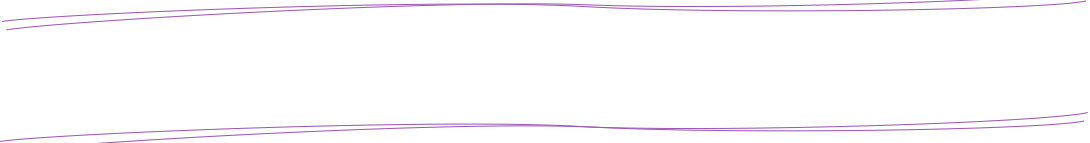
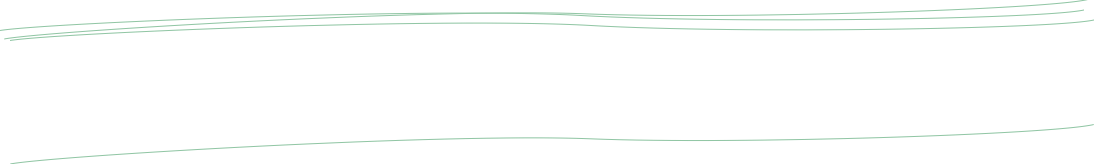
Fix fonts / add more green

Changed region(s): [[0.0, 0.0, 1.0, 0.2517], [0.0, 0.7552, 1.0, 1.0], [0.967, 0.8392, 0.9982, 0.8671]]

diff --git a/public/css/app.min.css b/public/css/app.min.css
@@ -1,1 +1,1 @@
-/*! normalize.css v3.0.0 | MIT License | git.io/normalize */html{font-family:sans-serif;-ms-text-size-adjust:100%;-webkit-text-size-adjust:100%}body{margin:0}article,aside,details,figcaption,figure,footer,header,hgroup,main,nav,section,summary{display:block}audio,canvas,progress,video{display:inline-block;vertical-align:baseline}audio:not([controls]){display:none;height:0}[hidden],template{display:none}a{background:transparent}a:active,a:hover{outline:0}abbr[title]{border-bottom:1px dotted}b,strong{font-weight:700}dfn{font-style:italic}h1{font-size:2em;margin:.67em 0}mark{background:#ff0;color:#000}small{font-size:80%}sub,sup{font-size:75%;line-height:0;position:relative;vertical-align:baseline}sup{top:-.5em}sub{bottom:-.25em}img{border:0}svg:not(:root){overflow:hidden}figure{margin:1em 40px}hr{-moz-box-sizing:content-box;-webkit-box-sizing:content-box;box-sizing:content-box;height:0}pre{overflow:auto}code,kbd,pre,samp{font-family:monospace,monospace;font-size:1em}button,input,optgroup,select,textarea{color:inherit;font:inherit;margin:0}button{overflow:visible}button,select{text-transform:none}button,html input[type=button],input[type=reset],input[type=submit]{-webkit-appearance:button;cursor:pointer}button[disabled],html input[disabled]{cursor:default}button::-moz-focus-inner,input::-moz-focus-inner{border:0;padding:0}input{line-height:normal}input[type=checkbox],input[type=radio]{-webkit-box-sizing:border-box;-moz-box-sizing:border-box;box-sizing:border-box;padding:0}input[type=number]::-webkit-inner-spin-button,input[type=number]::-webkit-outer-spin-button{height:auto}input[type=search]{-webkit-appearance:textfield;-moz-box-sizing:content-box;-webkit-box-sizing:content-box;box-sizing:content-box}input[type=search]::-webkit-search-cancel-button,input[type=search]::-webkit-search-decoration{-webkit-appearance:none}fieldset{border:1px solid silver;margin:0 2px;padding:.35em .625em .75em}legend{border:0;padding:0}textarea{overflow:auto}optgroup{font-weight:700}table{border-collapse:collapse;border-spacing:0}td,th{padding:0}*{-webkit-box-sizing:border-box;-moz-box-sizing:border-box;box-sizing:border-box}*,:before,:after{-webkit-box-sizing:border-box;-moz-box-sizing:border-box;box-sizing:border-box}body{width:100%;height:100%;margin:0;padding:20px;background:#edf1fa url(/images/body-bg.jpg) center center no-repeat;background-attachment:fixed;-webkit-background-size:cover;background-size:cover}@media (max-width:700px){body{background:#edf1fa;padding:0}}header{background:#eee url(/images/header-bg.png) top left repeat;width:90%;max-width:1400px;margin:0 auto;padding:60px 0;text-align:center;border:1px solid #ddd;border-bottom:0}@media (max-width:700px){header{width:100%;max-width:auto}}header .logo{margin:0 auto;max-width:656px}@media (max-width:1100px){header .logo{width:90%;height:auto}}header hr{border:0;height:41px;background:transparent url(/images/line-top@2x.png) center center no-repeat;-webkit-background-size:cover;background-size:cover;max-width:800px}@media (max-width:700px){header hr{display:none}}.page{background:#fff;width:90%;max-width:1400px;margin:0 auto 20px;padding:40px 100px;border:1px solid #ddd;border-top:0}@media (max-width:1000px){.page{padding:20px 5px}}@media (max-width:700px){.page{width:100%;max-width:auto;padding:10px 0}}.box{width:80%;margin:60px auto;background:rgba(250,250,250,.7);border:1px solid #ddd;padding:40px 0;-webkit-box-shadow:0 0 30px gainsboro;box-shadow:0 0 30px gainsboro}.box h1,.box h2{margin:0}@media (max-width:700px){.box{width:80%;margin:60px 0}}html,body,p,input,button,textarea,select{font-family:Lora,'Open Sans',"Helvetica Neue",Helvetica,Arial,sans-serif;font-size:18px;color:#444}h1,h2{margin:20px 0 30px;font-family:Cinzel,Georgia,Cambria,"Times New Roman",Times,serif;letter-spacing:.11em;font-size:2.33333em;font-weight:400;color:#f07677;text-align:center}@media (max-width:700px){h1,h2{font-size:1.63333em}}p{font-weight:100;line-height:1.5em}p.left{text-align:left}p.right{text-align:right}p.center{text-align:center}p.intro{text-align:center;padding:0 8%}p.large{font-size:1.3em}@media (max-width:700px){p.large{font-size:1.1em}}sup{top:0;font-size:smaller;vertical-align:super}.drop{font-size:1.5em;font-weight:500}a{text-decoration:none;font-family:Lora,'Open Sans',"Helvetica Neue",Helvetica,Arial,sans-serif;color:#ac74c1;font-weight:700;-webkit-transition:color .5s ease-in-out;transition:color .5s ease-in-out}a:hover{color:#3d2049}nav{display:block;width:90%;max-width:1400px;margin:0 auto;height:70px;background:#ac74c1}@media (max-width:700px){nav{width:100%;max-width:auto}}@media (max-width:960px){nav{height:auto}}nav a{display:block;padding:0 30px;line-height:70px;text-transform:uppercase;text-decoration:none;font-family:'Source Sans Pro',Lora,'Open Sans',"Helvetica Neue",Helvetica,Arial,sans-serif;font-size:1.11111em;font-weight:200;color:#fff;text-align:center}@media (max-width:1200px){nav a{padding:0 15px;max-width:auto}}@media (max-width:960px){nav a{padding:0 10px;font-size:.88889em}}nav a:hover{color:#fff}nav a.menu{display:none;font-size:1.11111em;-webkit-transition:none;transition:none;font-weight:500}nav a.menu.open{background:#ddd;color:#444}@media (max-width:960px){nav a.menu{display:block}}nav ul{display:block;height:70px;margin:0 auto;padding:0;text-align:center}@media (max-width:960px){nav ul{height:auto;display:none}}nav ul li{display:inline-block;list-style:none;height:70px;-webkit-transition:background .3s ease-in-out;transition:background .3s ease-in-out}@media (max-width:960px){nav ul li{display:block}}nav ul li:hover{background:rgba(68,68,68,.1)}nav ul li.active{background:rgba(68,68,68,.2)}nav ul li.active a{font-weight:400}.cal{margin:20px auto 0;width:430px;height:80px;padding:10px 20px;border:1px solid #ccc;background:#fff;-webkit-box-shadow:0 0 30px #eee;box-shadow:0 0 30px #eee}@media (max-width:700px){.cal{width:90%;height:auto;padding:20px 0}}.cal-first{margin-top:40px}.cal-time{float:left;width:120px;height:60px;padding-right:20px;font-size:24px;line-height:60px;text-align:center;font-weight:700}@media (max-width:700px){.cal-time{float:none;width:100%;text-align:center;padding:0;line-height:40px;height:40px}}.cal-time small{font-size:14px;color:#666;text-transform:uppercase;padding-left:2px}.cal-title{float:left;width:180px;height:60px;font-size:18px;line-height:60px;text-align:left}@media (max-width:700px){.cal-title{float:none;width:100%;text-align:center;height:40px;line-height:40px}}.cal-add{float:left;width:80px;height:60px;padding-top:8px;padding-left:20px;font-size:24px;line-height:60px;text-align:center}@media (max-width:700px){.cal-add{float:none;width:100%;padding:10px 0 0;text-align:center;height:60px;line-height:60px}}form{width:80%;margin:60px auto 20px}label{display:block;width:90%;margin:20px auto 10px;text-align:left;font-size:1.2em;line-height:1.5em;font-weight:100}label.radio{font-weight:400;font-size:1em;text-align:left;padding:0 10px}label.radio input{margin-right:10px}input[type=text],input[type=email],textarea{outline:0;display:block;width:90%;margin:0 5% 50px;padding:20px;border:1px solid #ccc;color:#3f3f3f;border-radius:2px;-webkit-transition:background .2s linear,-webkit-box-shadow .6s linear;transition:background .2s linear,box-shadow .6s linear;font-size:.9em;background:#fff}input[type=text]:required,input[type=email]:required,textarea:required{-webkit-box-shadow:none;box-shadow:none}input[type=text]:active,input[type=text]:focus,input[type=email]:active,input[type=email]:focus,textarea:active,textarea:focus{background:#fefefe;border:1px solid #ac74c1;-webkit-box-shadow:0 0 30px #ccc,2px 2px 7px #e8e8e8 inset,0 0 0 2px #ac74c1;box-shadow:0 0 30px #ccc,2px 2px 7px #e8e8e8 inset,0 0 0 2px #ac74c1}input[type=text],input[type=email]{height:40px;line-height:40px}textarea{min-height:150px;resize:vertical}::-webkit-input-placeholder{color:#bababa;font-style:italic}button{display:block;width:90%;max-width:200px;margin:20px 5%;background:#ac74c1;padding:20px;color:#fff;border:0}.radio-buttons{margin-top:-30px;padding:5px 0}fieldset{float:left;width:44%;margin:0 0 30px 4%;padding:0;border:1px solid #ccc}@media (max-width:960px){fieldset{float:none;width:90%;margin:0 auto 30px}}fieldset legend{text-align:left;font-size:.9em;font-weight:700;padding:0 10px}fieldset textarea{min-height:50px;margin-bottom:20px}.cal-add .addthisevent-drop{width:38px;height:41px;display:inline-block;position:relative;z-index:999998;background:url(/images/calendar-icon@2x.png) no-repeat;-webkit-background-size:38px 41px;background-size:38px 41px;border:0}.cal-add .addthisevent-drop:hover{border:0}.cal-add .addthisevent_dropdown{width:180px;position:absolute;z-index:99999;padding:6px 0 0;background:#fff;text-align:left;display:none;margin-top:4px;margin-left:-1px;border:1px solid #ddd;-webkit-box-shadow:1px 1px 5px rgba(0,0,0,.15);box-shadow:1px 1px 5px rgba(0,0,0,.15)}.cal-add .addthisevent_dropdown span{width:178px;display:block;height:40px;padding:0;padding-left:20px;line-height:40px;background:#fff;text-decoration:none;text-align:left;font-size:12px;font-weight:400;color:#f07677;color:#444}.cal-add .addthisevent_dropdown span:hover{background:#f07677;color:#fff;text-decoration:none}.cal-add .addthisevent span{display:none!important}.cal-add .addthisevent-drop ._url,.cal-add .addthisevent-drop ._start,.cal-add .addthisevent-drop ._end,.cal-add .addthisevent-drop ._summary,.cal-add .addthisevent-drop ._description,.cal-add .addthisevent-drop ._location,.cal-add .addthisevent-drop ._organizer,.cal-add .addthisevent-drop ._organizer_email,.cal-add .addthisevent-drop ._facebook_event,.cal-add .addthisevent-drop ._all_day_event{display:none!important}.cal-add .addthisevent_dropdown .copyx{margin-top:10px;border-top:1px solid #ddd;width:180px;height:30px;display:block;position:relative;cursor:default}.cal-add .addthisevent_dropdown .brx{display:none}.cal-add .addthisevent_dropdown .frs{position:absolute;top:10px;cursor:pointer;right:10px;padding-left:10px;font-style:normal;font-weight:400;text-align:right;z-index:101;line-height:110%;text-decoration:none;font-size:9px;color:#444}.cal-add .addthisevent_dropdown .frs:hover{color:#f07677}.cal-add .addthisevent{visibility:hidden}.photos{text-align:center;margin-top:40px}.photos img{margin:20px;margin-bottom:0;width:200px;height:auto;-webkit-box-shadow:0 0 3px #999,0 0 35px #aaa;box-shadow:0 0 3px #999,0 0 35px #aaa}.box-cal{width:90%;max-width:600px;margin-left:auto;margin-right:auto}@media (max-width:700px){.box-cal{width:100%;margin:40px 0;text-align:center;background:transparent;-webkit-box-shadow:none;box-shadow:none;border:0}}.box-location{margin:80px auto 40px;padding:20px 0}.box-location:after{content:"";display:table;clear:both}@media (max-width:700px){.box-location{width:100%;margin:60px 0;text-align:center;background:transparent;-webkit-box-shadow:none;box-shadow:none;border:0}}.box-location .photo{margin:0 40px;float:right;-webkit-box-shadow:0 0 3px #999,0 0 35px #aaa;box-shadow:0 0 3px #999,0 0 35px #aaa}@media (max-width:1200px){.box-location .photo{margin:20px 5%!important;float:none;width:90%}}.box-location .map{margin:20px 40px 0;-webkit-box-shadow:0 0 3px #999,0 0 35px #aaa;box-shadow:0 0 3px #999,0 0 35px #aaa}@media (max-width:960px){.box-location .map{margin:20px 5%!important;float:none;width:90%}}.box-location h2{margin:0 0 30px;padding-bottom:10px}.box-location p{padding:0 40px}.box-location p.address{font-weight:600;font-size:1.4em;text-align:center;padding-bottom:20px}.box-directions{margin:40px auto;padding:20px 0;text-align:center}@media (max-width:700px){.box-directions{width:100%;margin:40px 0;text-align:center;background:transparent;-webkit-box-shadow:none;box-shadow:none;border:0}}.box-directions h2{margin-top:20px;margin-bottom:30px}.box-directions .map{margin:25px 0;-webkit-box-shadow:0 0 3px #999,0 0 35px #aaa;box-shadow:0 0 3px #999,0 0 35px #aaa}.box-directions p{padding:0 5%}.box-directions ul{width:400px;margin:0 auto}@media (max-width:700px){.box-directions ul{width:100%;padding:0}}.box-directions ul li{list-style:none;padding:5px 0}@media (max-width:700px){.box-directions ul li{padding:5px 10px}}.box-directions dl{width:420px;margin:0 auto}@media (max-width:700px){.box-directions dl{width:auto}}.box-directions dl dt,.box-directions dl dd{display:inline-block;margin:0 0 10px;padding:0;font-weight:700}.box-directions dl dt{width:280px;text-align:left}@media (max-width:700px){.box-directions dl dt{display:block;width:100%;text-align:center}}.box-directions dl dd{width:130px;text-align:right}@media (max-width:700px){.box-directions dl dd{display:block;width:100%;text-align:center}}.box-contact,.box-rsvp{margin:80px auto 40px;padding:20px 0;max-width:800px}.box-contact:after,.box-rsvp:after{content:"";display:table;clear:both}@media (max-width:700px){.box-contact,.box-rsvp{width:100%;margin:60px 0;text-align:center;background:transparent;-webkit-box-shadow:none;box-shadow:none;border:0}}.box-rsvp{max-width:1000px;padding:40px 0}
+/*! normalize.css v3.0.0 | MIT License | git.io/normalize */html{font-family:sans-serif;-ms-text-size-adjust:100%;-webkit-text-size-adjust:100%}body{margin:0}article,aside,details,figcaption,figure,footer,header,hgroup,main,nav,section,summary{display:block}audio,canvas,progress,video{display:inline-block;vertical-align:baseline}audio:not([controls]){display:none;height:0}[hidden],template{display:none}a{background:transparent}a:active,a:hover{outline:0}abbr[title]{border-bottom:1px dotted}b,strong{font-weight:700}dfn{font-style:italic}h1{font-size:2em;margin:.67em 0}mark{background:#ff0;color:#000}small{font-size:80%}sub,sup{font-size:75%;line-height:0;position:relative;vertical-align:baseline}sup{top:-.5em}sub{bottom:-.25em}img{border:0}svg:not(:root){overflow:hidden}figure{margin:1em 40px}hr{-moz-box-sizing:content-box;-webkit-box-sizing:content-box;box-sizing:content-box;height:0}pre{overflow:auto}code,kbd,pre,samp{font-family:monospace,monospace;font-size:1em}button,input,optgroup,select,textarea{color:inherit;font:inherit;margin:0}button{overflow:visible}button,select{text-transform:none}button,html input[type=button],input[type=reset],input[type=submit]{-webkit-appearance:button;cursor:pointer}button[disabled],html input[disabled]{cursor:default}button::-moz-focus-inner,input::-moz-focus-inner{border:0;padding:0}input{line-height:normal}input[type=checkbox],input[type=radio]{-webkit-box-sizing:border-box;-moz-box-sizing:border-box;box-sizing:border-box;padding:0}input[type=number]::-webkit-inner-spin-button,input[type=number]::-webkit-outer-spin-button{height:auto}input[type=search]{-webkit-appearance:textfield;-moz-box-sizing:content-box;-webkit-box-sizing:content-box;box-sizing:content-box}input[type=search]::-webkit-search-cancel-button,input[type=search]::-webkit-search-decoration{-webkit-appearance:none}fieldset{border:1px solid silver;margin:0 2px;padding:.35em .625em .75em}legend{border:0;padding:0}textarea{overflow:auto}optgroup{font-weight:700}table{border-collapse:collapse;border-spacing:0}td,th{padding:0}*{-webkit-box-sizing:border-box;-moz-box-sizing:border-box;box-sizing:border-box}*,:before,:after{-webkit-box-sizing:border-box;-moz-box-sizing:border-box;box-sizing:border-box}body{width:100%;height:100%;margin:0;padding:20px;background:#edf1fa url(/images/body-bg.jpg) center center no-repeat;background-attachment:fixed;-webkit-background-size:cover;background-size:cover}@media (max-width:700px){body{background:#edf1fa;padding:0}}header{background:#eee url(/images/header-bg.png) top left repeat;width:90%;max-width:1400px;margin:0 auto;padding:60px 0;text-align:center;border:1px solid #ddd;border-bottom:0}@media (max-width:700px){header{width:100%;max-width:auto}}header .logo{margin:0 auto;max-width:656px}@media (max-width:1100px){header .logo{width:90%;height:auto}}header hr{border:0;height:41px;background:transparent url(/images/line@2x.png) center center no-repeat;-webkit-background-size:cover;background-size:cover;max-width:800px}@media (max-width:700px){header hr{display:none}}.page{background:#fff;width:90%;max-width:1400px;margin:0 auto 20px;padding:40px 100px;border:1px solid #ddd;border-top:0}@media (max-width:1000px){.page{padding:20px 5px}}@media (max-width:700px){.page{width:100%;max-width:auto;padding:10px 0}}.box{width:80%;margin:60px auto;background:rgba(250,250,250,.7);border:1px solid #ddd;padding:40px 0;-webkit-box-shadow:0 0 30px gainsboro;box-shadow:0 0 30px gainsboro}.box h1,.box h2{margin:0}@media (max-width:700px){.box{width:80%;margin:60px 0}}html,body,p,input,button,textarea,select{font-family:Lora,'Open Sans',"Helvetica Neue",Helvetica,Arial,sans-serif;font-size:18px;color:#444}h1,h2{margin:20px 0 30px;font-family:Cinzel,Georgia,Cambria,"Times New Roman",Times,serif;letter-spacing:.11em;font-size:2.33333em;font-weight:400;color:#f07677;text-align:center}@media (max-width:700px){h1,h2{font-size:1.63333em}}p{font-weight:100;line-height:1.5em}p.left{text-align:left}p.right{text-align:right}p.center{text-align:center}p.intro{text-align:center;padding:0 8%}p.large{font-size:1.3em}@media (max-width:700px){p.large{font-size:1.1em}}sup{top:0;font-size:smaller;vertical-align:super}.drop{font-size:1.5em;font-weight:500}a{text-decoration:none;font-family:Lora,'Open Sans',"Helvetica Neue",Helvetica,Arial,sans-serif;color:#4a8d65;font-weight:700;-webkit-transition:color .5s ease-in-out;transition:color .5s ease-in-out}a:hover{color:#274a35}nav{display:block;width:90%;max-width:1400px;margin:0 auto;height:70px;background:#a2ceb4}@media (max-width:700px){nav{width:100%;max-width:auto}}@media (max-width:960px){nav{height:auto}}nav a{display:block;padding:0 30px;line-height:70px;text-transform:uppercase;text-decoration:none;font-family:'Source Sans Pro',Lora,'Open Sans',"Helvetica Neue",Helvetica,Arial,sans-serif;font-size:1.11111em;font-weight:200;color:#fff;text-align:center}@media (max-width:1200px){nav a{padding:0 15px;max-width:auto}}@media (max-width:960px){nav a{padding:0 10px;font-size:.88889em}}nav a:hover{color:#fff}nav a.menu{display:none;font-size:1.11111em;-webkit-transition:none;transition:none;font-weight:400}nav a.menu.open{background:#ddd;color:#444}@media (max-width:960px){nav a.menu{display:block}}nav ul{display:block;height:70px;margin:0 auto;padding:0;text-align:center}@media (max-width:960px){nav ul{height:auto;display:none}}nav ul li{display:inline-block;list-style:none;height:70px;-webkit-transition:background .3s ease-in-out;transition:background .3s ease-in-out}@media (max-width:960px){nav ul li{display:block}}nav ul li:hover{background:rgba(68,68,68,.1)}nav ul li.active{background:rgba(68,68,68,.2)}nav ul li.active a{font-weight:400}.cal{margin:20px auto 0;width:430px;height:80px;padding:10px 20px;border:1px solid #ccc;background:#fff;-webkit-box-shadow:0 0 30px #eee;box-shadow:0 0 30px #eee}@media (max-width:700px){.cal{width:90%;height:auto;padding:20px 0}}.cal-first{margin-top:40px}.cal-time{float:left;width:120px;height:60px;padding-right:20px;font-size:24px;line-height:60px;text-align:center;font-weight:700}@media (max-width:700px){.cal-time{float:none;width:100%;text-align:center;padding:0;line-height:40px;height:40px}}.cal-time small{font-size:14px;color:#666;text-transform:uppercase;padding-left:2px}.cal-title{float:left;width:180px;height:60px;font-size:18px;line-height:60px;text-align:left}@media (max-width:700px){.cal-title{float:none;width:100%;text-align:center;height:40px;line-height:40px}}.cal-add{float:left;width:80px;height:60px;padding-top:8px;padding-left:20px;font-size:24px;line-height:60px;text-align:center}@media (max-width:700px){.cal-add{float:none;width:100%;padding:10px 0 0;text-align:center;height:60px;line-height:60px}}form{width:80%;margin:60px auto 20px}label{display:block;width:90%;margin:20px auto 10px;text-align:left;font-size:1.2em;line-height:1.5em;font-weight:100}label.radio{font-weight:400;font-size:1em;text-align:left;padding:0 10px}label.radio input{margin-right:10px}input[type=text],input[type=email],textarea{outline:0;display:block;width:90%;margin:0 5% 50px;padding:20px;border:1px solid #ccc;color:#3f3f3f;border-radius:2px;-webkit-transition:background .2s linear,-webkit-box-shadow .6s linear;transition:background .2s linear,box-shadow .6s linear;font-size:.9em;background:#fff}input[type=text]:required,input[type=email]:required,textarea:required{-webkit-box-shadow:none;box-shadow:none}input[type=text]:active,input[type=text]:focus,input[type=email]:active,input[type=email]:focus,textarea:active,textarea:focus{background:#fefefe;border:1px solid #ac74c1;-webkit-box-shadow:0 0 30px #ccc,2px 2px 7px #e8e8e8 inset,0 0 0 2px #ac74c1;box-shadow:0 0 30px #ccc,2px 2px 7px #e8e8e8 inset,0 0 0 2px #ac74c1}input[type=text],input[type=email]{height:40px;line-height:40px}textarea{min-height:150px;resize:vertical}::-webkit-input-placeholder{color:#bababa;font-style:italic}button{display:block;width:90%;max-width:200px;margin:20px 5%;background:#ac74c1;padding:20px;color:#fff;border:0}.radio-buttons{margin-top:-30px;padding:5px 0}fieldset{float:left;width:44%;margin:0 0 30px 4%;padding:0;border:1px solid #ccc}@media (max-width:960px){fieldset{float:none;width:90%;margin:0 auto 30px}}fieldset legend{text-align:left;font-size:.9em;font-weight:700;padding:0 10px}fieldset textarea{min-height:50px;margin-bottom:20px}.cal-add .addthisevent-drop{width:38px;height:41px;display:inline-block;position:relative;z-index:999998;background:url(/images/calendar-icon@2x.png) no-repeat;-webkit-background-size:38px 41px;background-size:38px 41px;border:0}.cal-add .addthisevent-drop:hover{border:0}.cal-add .addthisevent_dropdown{width:180px;position:absolute;z-index:99999;padding:6px 0 0;background:#fff;text-align:left;display:none;margin-top:4px;margin-left:-1px;border:1px solid #ddd;-webkit-box-shadow:1px 1px 5px rgba(0,0,0,.15);box-shadow:1px 1px 5px rgba(0,0,0,.15)}.cal-add .addthisevent_dropdown span{width:178px;display:block;height:40px;padding:0;padding-left:20px;line-height:40px;background:#fff;text-decoration:none;text-align:left;font-size:12px;font-weight:400;color:#f07677;color:#444}.cal-add .addthisevent_dropdown span:hover{background:#f07677;color:#fff;text-decoration:none}.cal-add .addthisevent span{display:none!important}.cal-add .addthisevent-drop ._url,.cal-add .addthisevent-drop ._start,.cal-add .addthisevent-drop ._end,.cal-add .addthisevent-drop ._summary,.cal-add .addthisevent-drop ._description,.cal-add .addthisevent-drop ._location,.cal-add .addthisevent-drop ._organizer,.cal-add .addthisevent-drop ._organizer_email,.cal-add .addthisevent-drop ._facebook_event,.cal-add .addthisevent-drop ._all_day_event{display:none!important}.cal-add .addthisevent_dropdown .copyx{margin-top:10px;border-top:1px solid #ddd;width:180px;height:30px;display:block;position:relative;cursor:default}.cal-add .addthisevent_dropdown .brx{display:none}.cal-add .addthisevent_dropdown .frs{position:absolute;top:10px;cursor:pointer;right:10px;padding-left:10px;font-style:normal;font-weight:400;text-align:right;z-index:101;line-height:110%;text-decoration:none;font-size:9px;color:#444}.cal-add .addthisevent_dropdown .frs:hover{color:#f07677}.cal-add .addthisevent{visibility:hidden}.photos{text-align:center;margin-top:40px}.photos img{margin:20px;margin-bottom:0;width:200px;height:auto;-webkit-box-shadow:0 0 3px #999,0 0 35px #aaa;box-shadow:0 0 3px #999,0 0 35px #aaa}.box-cal{width:90%;max-width:600px;margin-left:auto;margin-right:auto}@media (max-width:700px){.box-cal{width:100%;margin:40px 0;text-align:center;background:transparent;-webkit-box-shadow:none;box-shadow:none;border:0}}.box-location{margin:80px auto 40px;padding:20px 0}.box-location:after{content:"";display:table;clear:both}@media (max-width:700px){.box-location{width:100%;margin:60px 0;text-align:center;background:transparent;-webkit-box-shadow:none;box-shadow:none;border:0}}.box-location .photo{margin:0 40px;float:right;-webkit-box-shadow:0 0 3px #999,0 0 35px #aaa;box-shadow:0 0 3px #999,0 0 35px #aaa}@media (max-width:1200px){.box-location .photo{margin:20px 5%!important;float:none;width:90%}}.box-location .map{margin:20px 40px 0;-webkit-box-shadow:0 0 3px #999,0 0 35px #aaa;box-shadow:0 0 3px #999,0 0 35px #aaa}@media (max-width:960px){.box-location .map{margin:20px 5%!important;float:none;width:90%}}.box-location h2{margin:0 0 30px;padding-bottom:10px}.box-location p{padding:0 40px}.box-location p.address{font-weight:600;font-size:1.4em;text-align:center;padding-bottom:20px}.box-directions{margin:40px auto;padding:20px 0;text-align:center}@media (max-width:700px){.box-directions{width:100%;margin:40px 0;text-align:center;background:transparent;-webkit-box-shadow:none;box-shadow:none;border:0}}.box-directions h2{margin-top:20px;margin-bottom:30px}.box-directions .map{margin:25px 0;-webkit-box-shadow:0 0 3px #999,0 0 35px #aaa;box-shadow:0 0 3px #999,0 0 35px #aaa}.box-directions p{padding:0 5%}.box-directions ul{width:400px;margin:0 auto}@media (max-width:700px){.box-directions ul{width:100%;padding:0}}.box-directions ul li{list-style:none;padding:5px 0}@media (max-width:700px){.box-directions ul li{padding:5px 10px}}.box-directions dl{width:420px;margin:0 auto}@media (max-width:700px){.box-directions dl{width:auto}}.box-directions dl dt,.box-directions dl dd{display:inline-block;margin:0 0 10px;padding:0;font-weight:700}.box-directions dl dt{width:280px;text-align:left}@media (max-width:700px){.box-directions dl dt{display:block;width:100%;text-align:center}}.box-directions dl dd{width:130px;text-align:right}@media (max-width:700px){.box-directions dl dd{display:block;width:100%;text-align:center}}.box-contact,.box-rsvp{margin:80px auto 40px;padding:20px 0;max-width:800px}.box-contact:after,.box-rsvp:after{content:"";display:table;clear:both}@media (max-width:700px){.box-contact,.box-rsvp{width:100%;margin:60px 0;text-align:center;background:transparent;-webkit-box-shadow:none;box-shadow:none;border:0}}.box-rsvp{max-width:1000px;padding:40px 0}

diff --git a/public/css/app.css b/public/css/app.css
@@ -367,7 +367,7 @@ header {
   header hr {
     border: none;
     height: 41px;
-    background: transparent url(/images/line-top@2x.png) center center no-repeat;
+    background: transparent url(/images/line@2x.png) center center no-repeat;
     -webkit-background-size: cover;
     background-size: cover;
     max-width: 800px; }
@@ -454,13 +454,13 @@ sup {
 a {
   text-decoration: none;
   font-family: 'Lora', 'Open Sans', "Helvetica Neue", Helvetica, Arial, sans-serif;
-  color: #ac74c1;
+  color: #4a8d65;
   font-weight: bold;
   -webkit-transition: color 0.5s ease-in-out;
   transition: color 0.5s ease-in-out; }
 
 a:hover {
-  color: #3d2049; }
+  color: #274a35; }
 
 nav {
   display: block;
@@ -468,7 +468,7 @@ nav {
   max-width: 1400px;
   margin: 0 auto;
   height: 70px;
-  background: #ac74c1; }
+  background: #a2ceb4; }
   @media (max-width: 700px) {
     nav {
       width: 100%;
@@ -502,7 +502,7 @@ nav {
     font-size: 1.11111em;
     -webkit-transition: none;
     transition: none;
-    font-weight: 500; }
+    font-weight: 400; }
     nav a.menu.open {
       background: #dddddd;
       color: #444444; }

diff --git a/assets/sass/_settings.scss b/assets/sass/_settings.scss
@@ -9,6 +9,7 @@ $off-white: #eee;
 $light-gray: #ccc;
 $dark-gray: #444;
 $salmon: #f07677;
+$green: #A2CEB4;
 $purple: #ac74c1;
 $sky-blue: #edf1fa;
 
@@ -19,8 +20,8 @@ $font-color: $dark-gray;
 
 // Link Fonts
 $font-link: $font;
-$font-link-color: $purple;
-$font-link-color-hover: darken($purple, 40%);
+$font-link-color: darken($green, 30%);
+$font-link-color-hover: darken($green, 50%);
 
 // Heading Fonts
 $font-heading: 'Cinzel', $georgia;
@@ -41,7 +42,7 @@ $body-background-image: 'body-bg.jpg';
 $header-background-color: $off-white;
 $header-background-image: 'header-bg.png';
 
-$nav-background-color: $purple;
+$nav-background-color: $green;
 $nav-background-color-hover: rgba(68, 68, 68, 0.1);
 $nav-background-color-active: rgba(68, 68, 68, 0.2);
 

diff --git a/assets/sass/_layout.scss b/assets/sass/_layout.scss
@@ -48,7 +48,7 @@ header {
   hr {
     border: none;
     height: 41px;
-    background: transparent url(/images/line-top@2x.png) center center no-repeat;
+    background: transparent url(/images/line@2x.png) center center no-repeat;
     background-size: cover;
     max-width: 800px;
 

diff --git a/assets/sass/_navigation.scss b/assets/sass/_navigation.scss
@@ -49,7 +49,7 @@ nav {
     display: none;
     font-size: em($font-nav-size, $font-size);
     transition: none;
-    font-weight: 500;
+    font-weight: 400;
 
     &.open {
       background: #ddd;

diff --git a/assets/sass/index.scss b/assets/sass/index.scss
@@ -13,5 +13,3 @@
 @import 'page_home';
 @import 'page_travel';
 @import 'page_contact';
-
-
